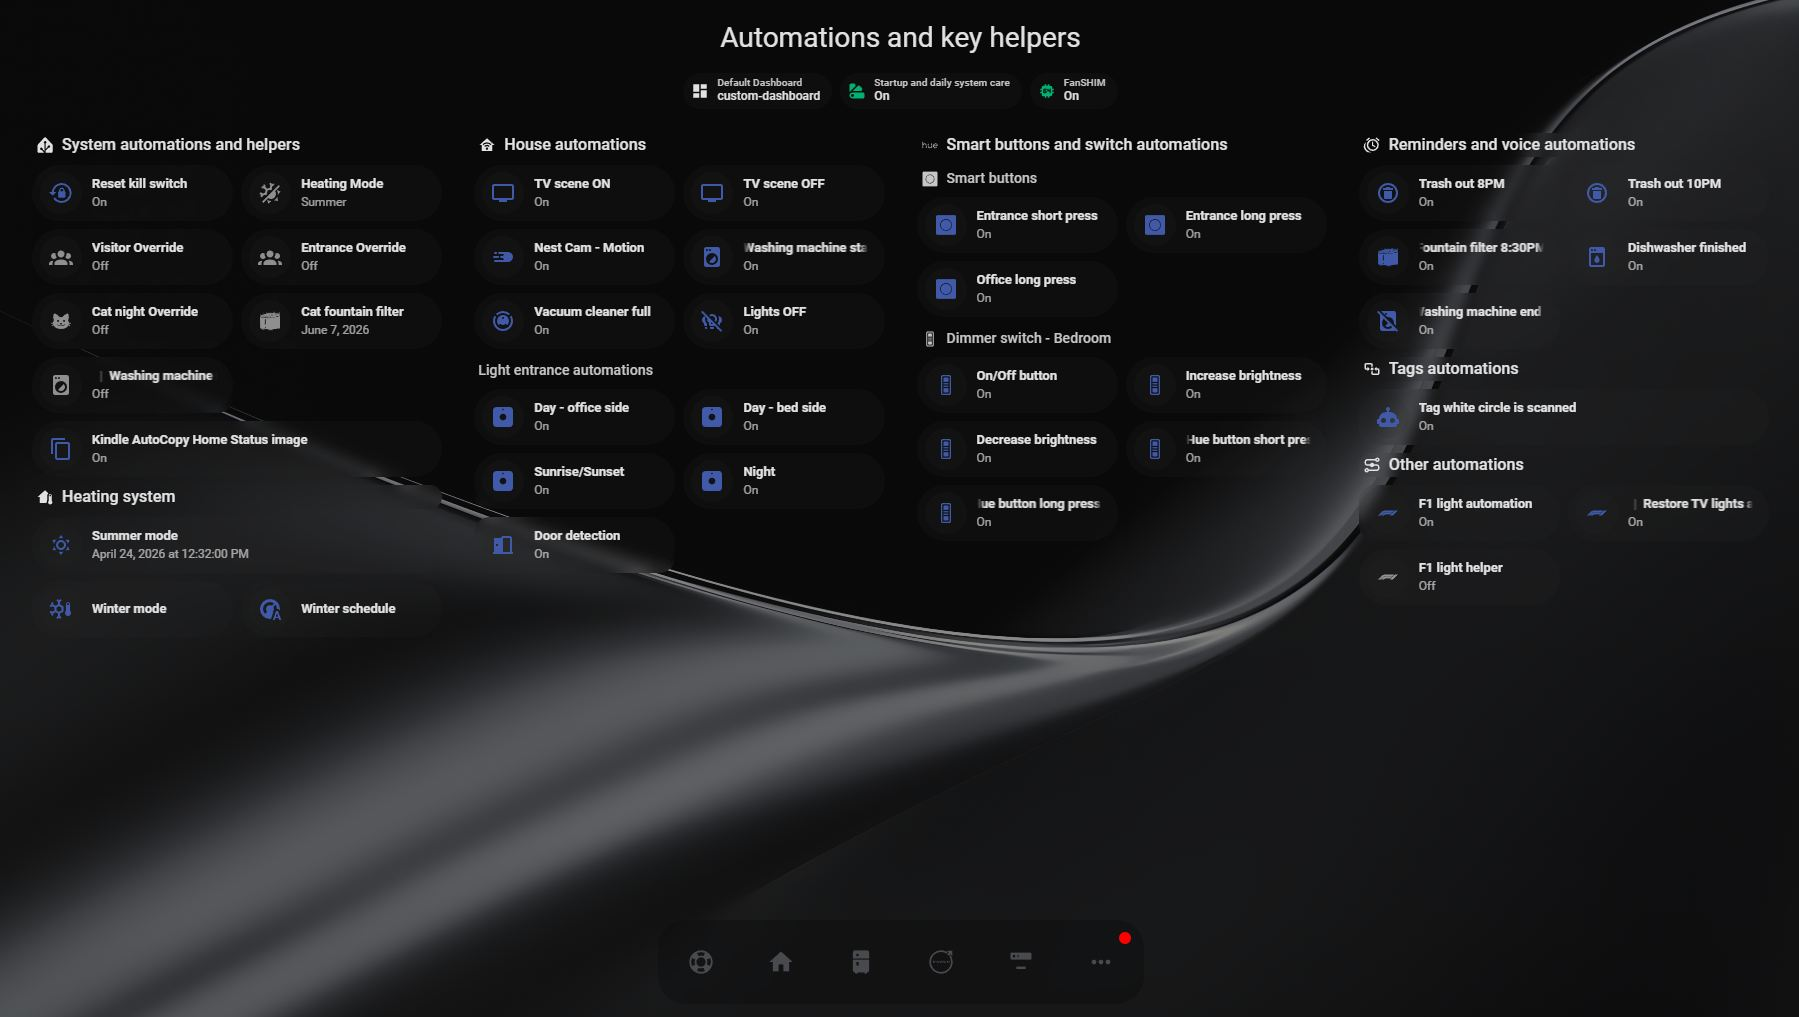
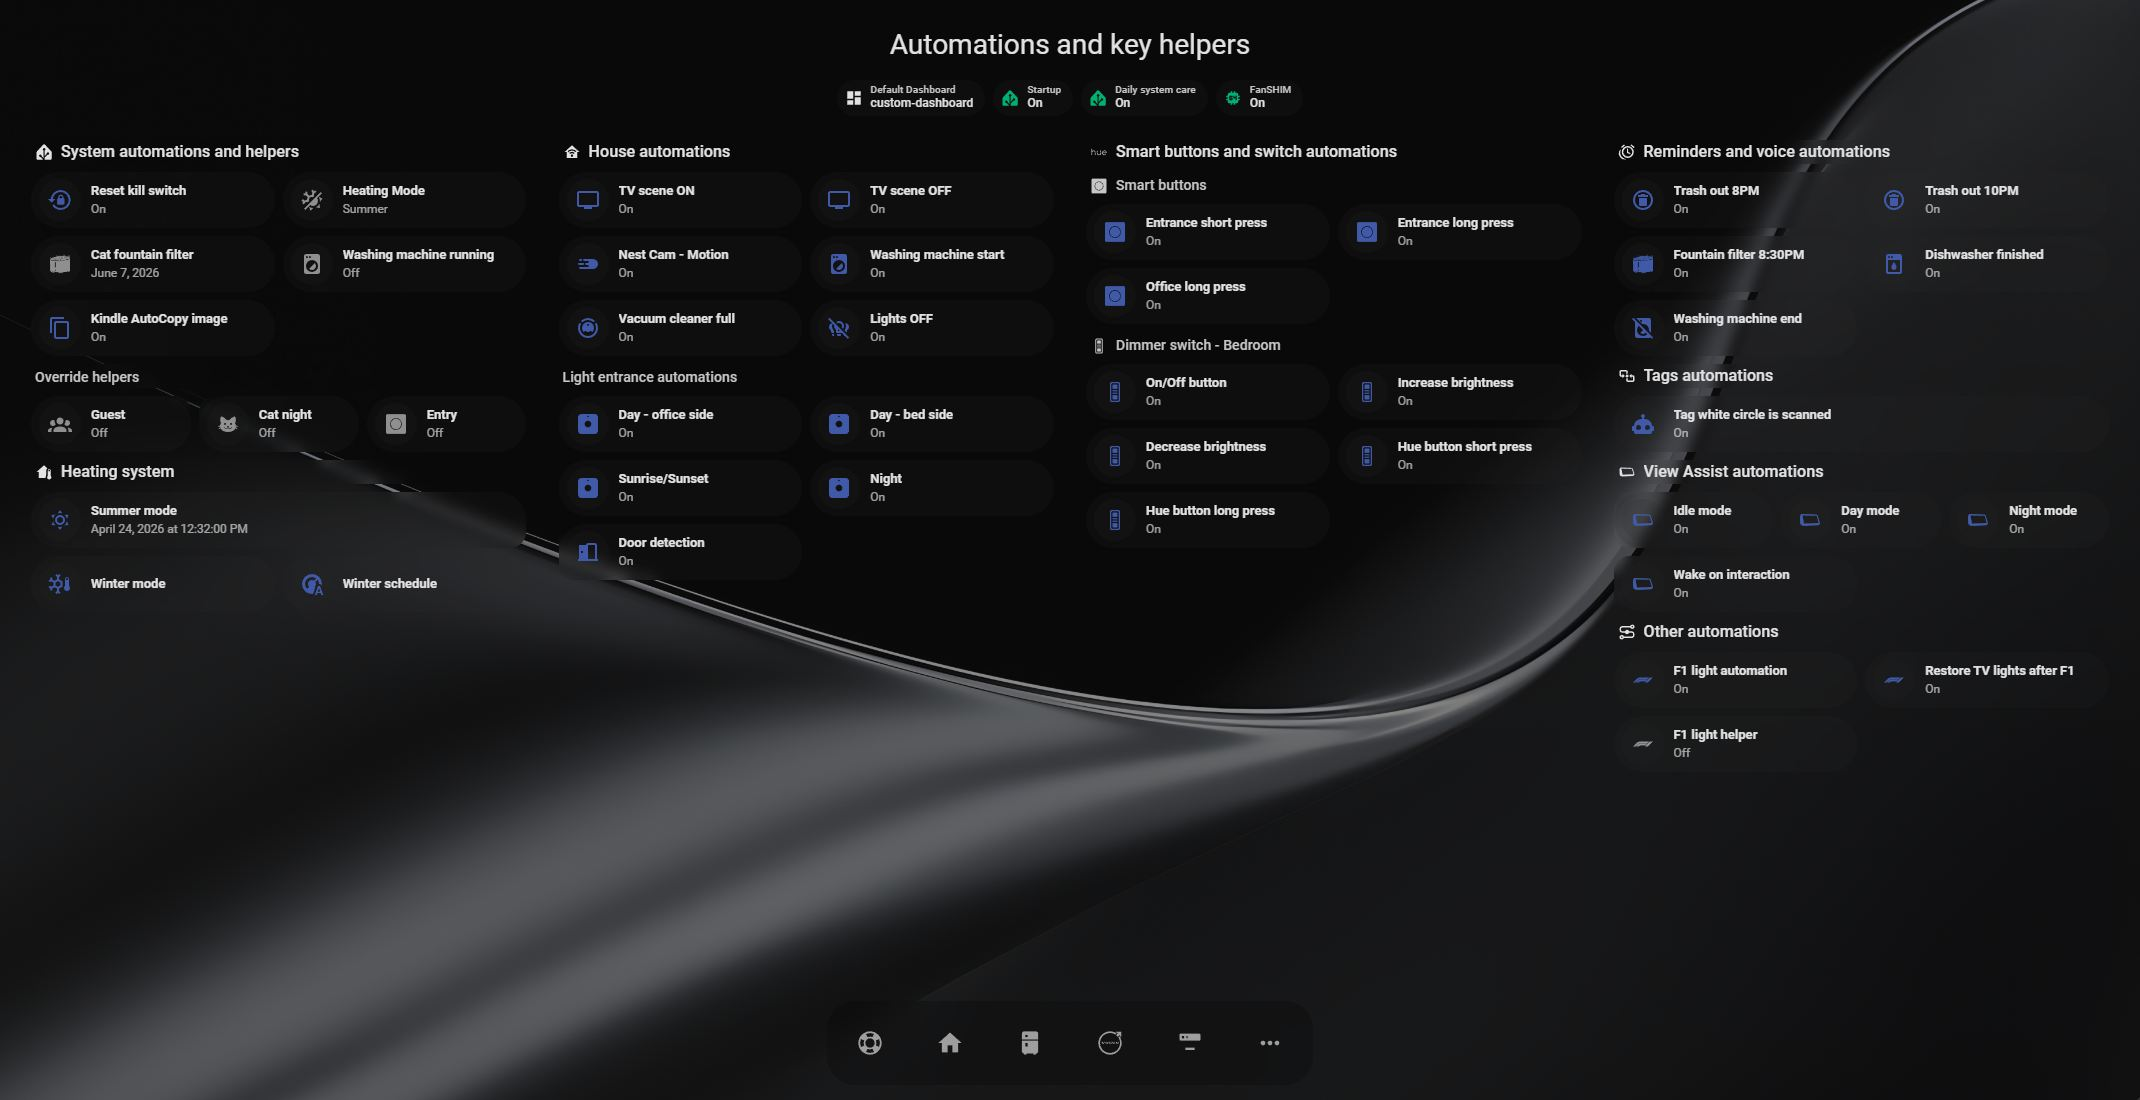
Improve Automations view layout and Kindle display

diff --git a/kindle_display/kindle_display.py b/kindle_display/kindle_display.py
@@ -112,16 +112,17 @@ class KindleDisplay(hass.Hass):
         tomorrow_forecast = forecast_list[24] if len(forecast_list) > 24 else None
 
         # --- ROOM TEMPERATURES ---
-        temp_living = self.get_state("sensor.healthy_home_coach_temperature_sensor")
-        humidity_living = self.get_state("sensor.healthy_home_coach_humidity_sensor")
+        temp_living = self.get_state("sensor.netatmo_iaq_temperature")
+        humidity_living = self.get_state("sensor.netatmo_iaq_humidity")
         temp_entrance = self.get_state("sensor.radiator_thermostat_w600_temperature")
         temp_bedroom = self.get_state("sensor.radiator_thermostat_w600_temperature_4")
         temp_bathroom = self.get_state("sensor.radiator_thermostat_w600_temperature_3")
         temp_office = self.get_state("sensor.radiator_thermostat_w600_temperature_2")
 
         # --- AIR QUALITY ---
-        aqi_pm25 = self.get_state("sensor.healthy_home_coach_air_quality")
-        aqi_co2 = self.get_state("sensor.healthy_home_coach_carbon_dioxide_sensor")
+        health_index = self.get_state("sensor.netatmo_iaq_health_index")
+        atmospheric_pressure = self.get_state("sensor.netatmo_iaq_atmospheric_pressure")
+        aqi_co2 = self.get_state("sensor.netatmo_iaq_carbon_dioxide")
 
         # --- IMAGE SETUP ---
         img = Image.new("L", (IMAGE_WIDTH, IMAGE_HEIGHT), 255)
@@ -167,7 +168,7 @@ class KindleDisplay(hass.Hass):
         #draw.text((MARGIN_X, y + 30), f"Humidity: {weather_humidity}%", font=font_text, fill=0)
         weather_uv = self.get_state("weather.irm", attribute="uv_index")
         uv_cat = uv_category(weather_uv)
-        draw.text((MARGIN_X, y + 30), f"UV: {uv_cat} ({weather_uv})", font=font_text_small, fill=0)
+        draw.text((MARGIN_X, y + 30), f"UV: {uv_cat} ({weather_uv})", font=font_text, fill=0)
 
         # Icon today
         icon_today = ICON_MAP.get(weather_state, "wi-na.png")
@@ -182,7 +183,7 @@ class KindleDisplay(hass.Hass):
 
         # --- NEXT HOURS (horizontal icons + time + temp) ---
         y += 80
-        title = "Next Hours"
+        title = "View per hour"
         draw.text((MARGIN_X, y), title, font=font_text, fill=0)
         bbox = draw.textbbox((MARGIN_X, y), title, font=font_text)
         text_bottom = bbox[3]
@@ -261,7 +262,7 @@ class KindleDisplay(hass.Hass):
             sunrise_raw = self.get_state("sensor.sun_next_rising")
             sunset_raw = self.get_state("sensor.sun_next_setting")
 
-            draw.text((MARGIN_X, y), f"{cond_detailed_tomorrow}", font=font_text_small, fill=0)
+            draw.text((MARGIN_X, y), f"{cond_detailed_tomorrow}", font=font_text, fill=0)
             y += 25
             draw.text((MARGIN_X, y), f"Min {temp_min}°C / Max {temp_max}°C", font=font_text, fill=0)
             y += 30
@@ -325,7 +326,9 @@ class KindleDisplay(hass.Hass):
         text_bottom = bbox[3]
         draw.line((RIGHT_X, text_bottom + 5, 758 - MARGIN_X, text_bottom + 5), fill=LINE_FILL, width=LINE_WIDTH)
         y_right = y + 35
-        draw.text((RIGHT_X, y_right), f"PM2.5 Index: {aqi_pm25}", font=font_text_small, fill=0)
+        draw.text((RIGHT_X, y_right), f"Health Index: {health_index}", font=font_text, fill=0)
+        y_right += 30
+        draw.text((RIGHT_X, y_right), f"Atmospheric Pressure: {atmospheric_pressure} hPa", font=font_text_small, fill=0)
         y_right += 25
         draw.text((RIGHT_X, y_right), f"CO2: {aqi_co2} ppm", font=font_text_small, fill=0)
 
